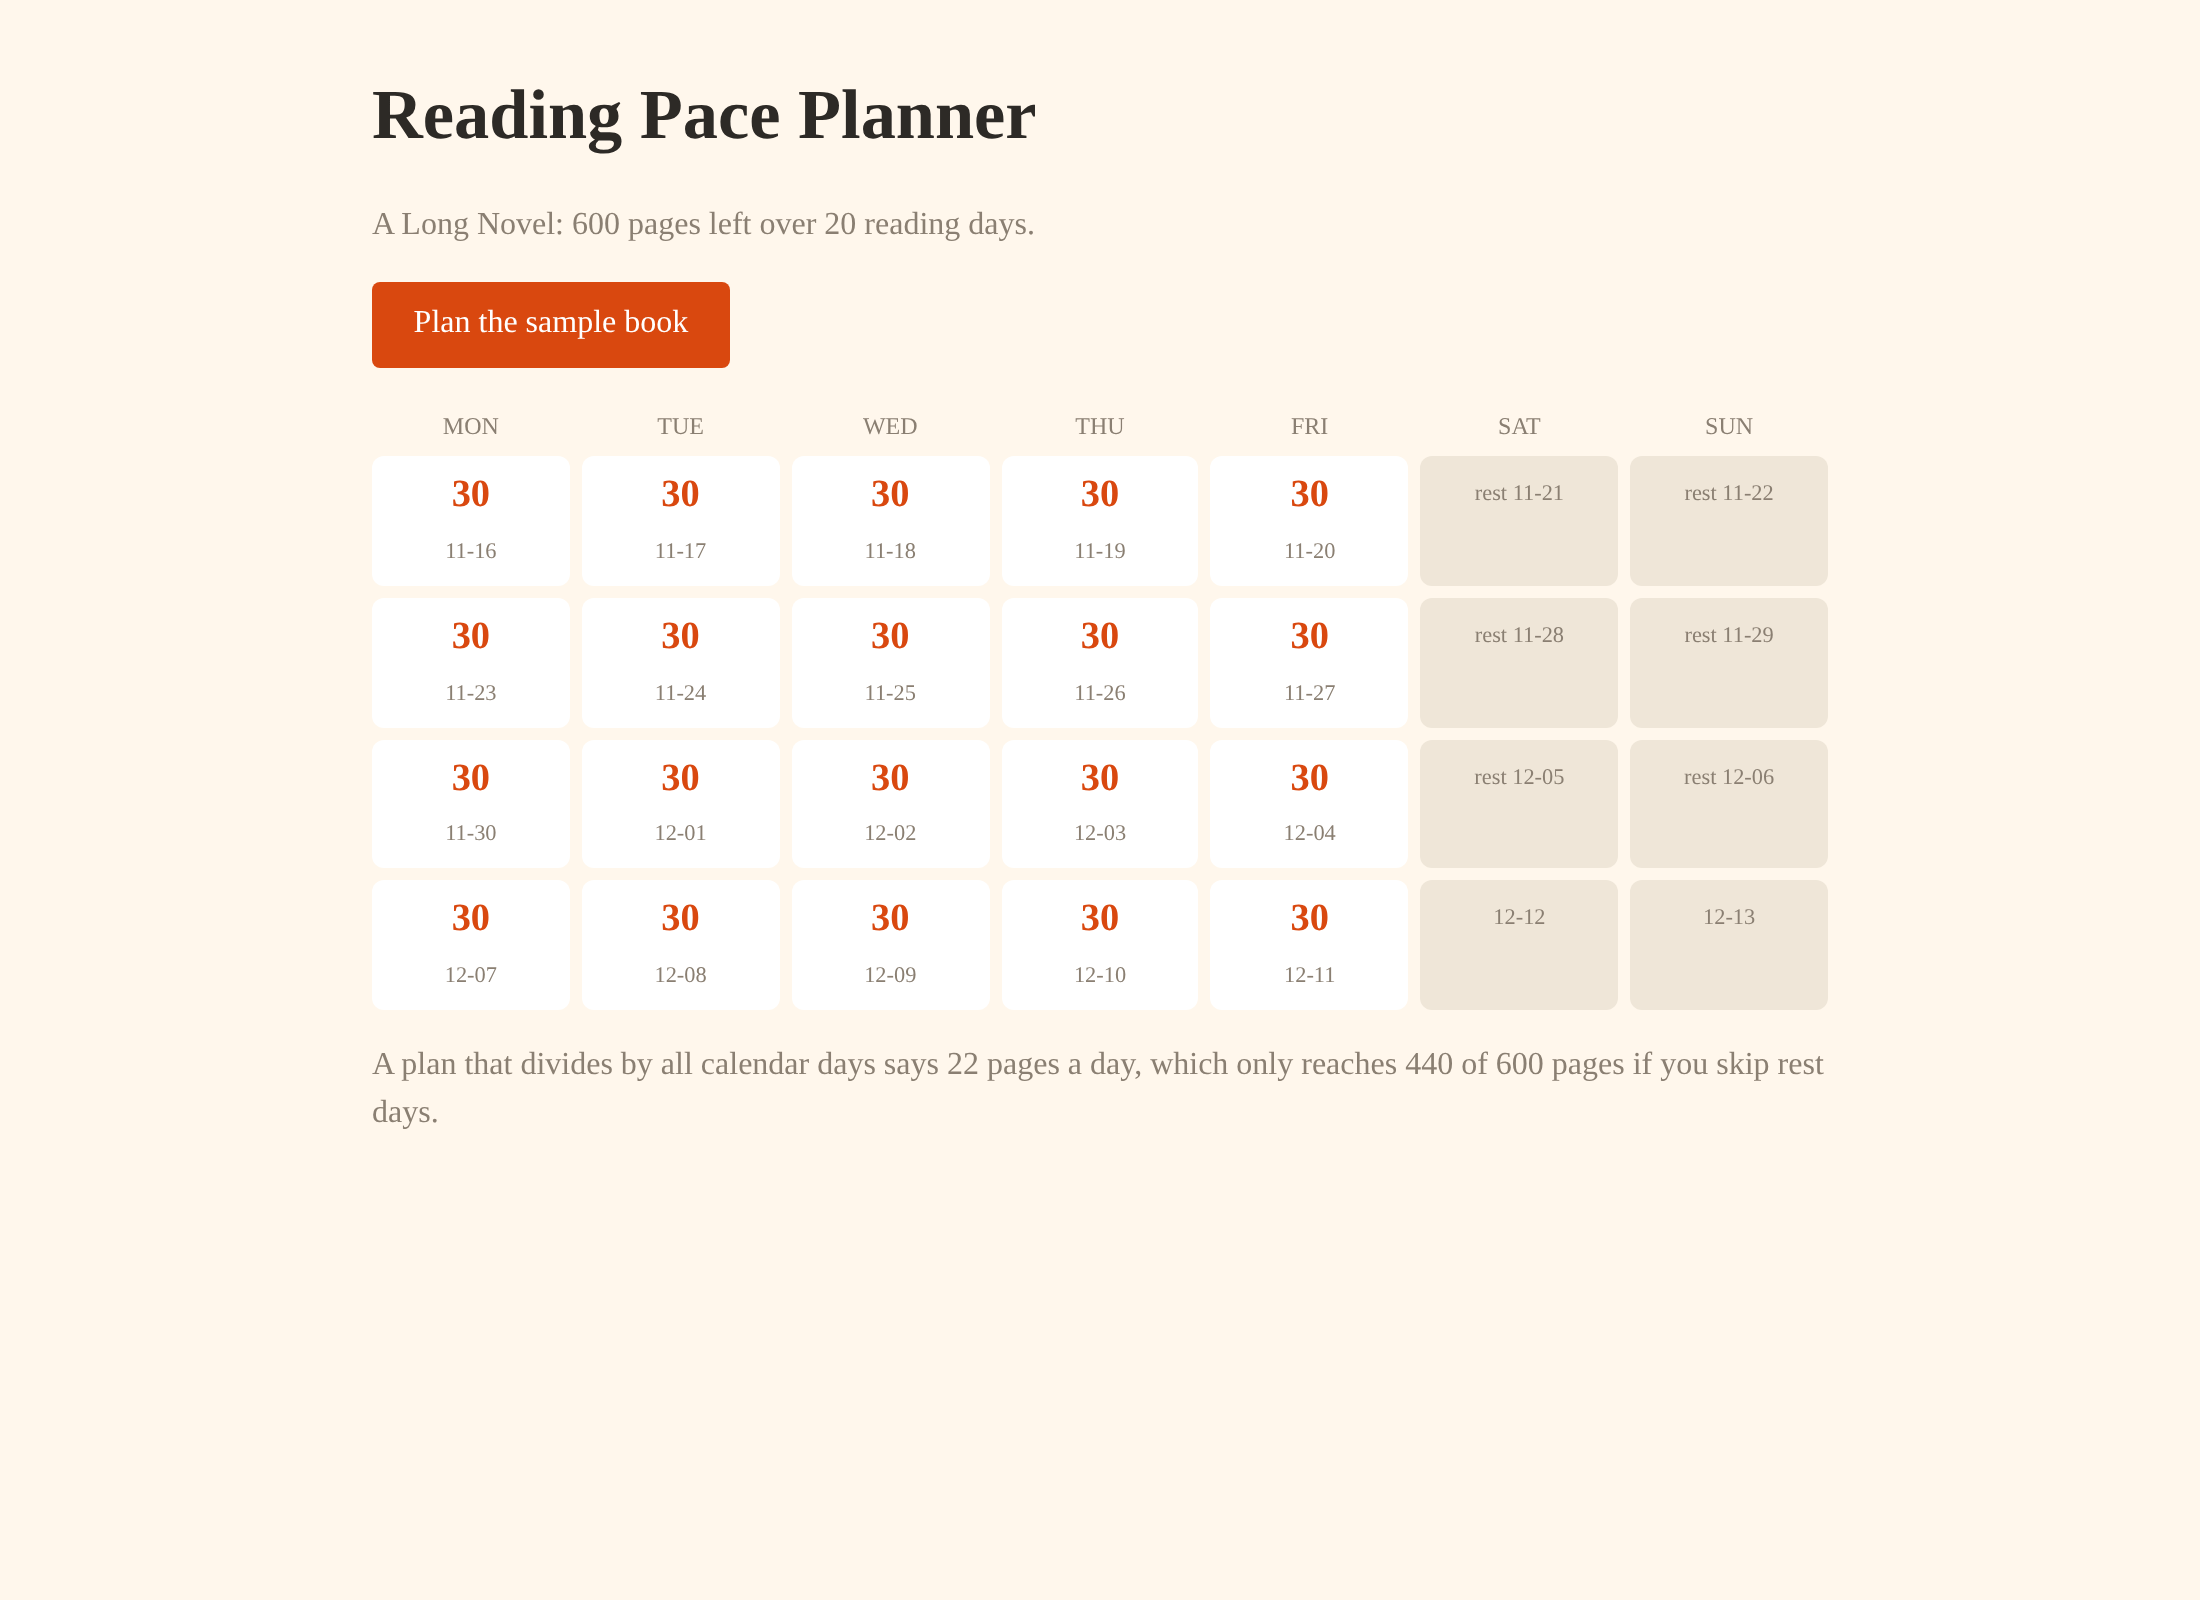
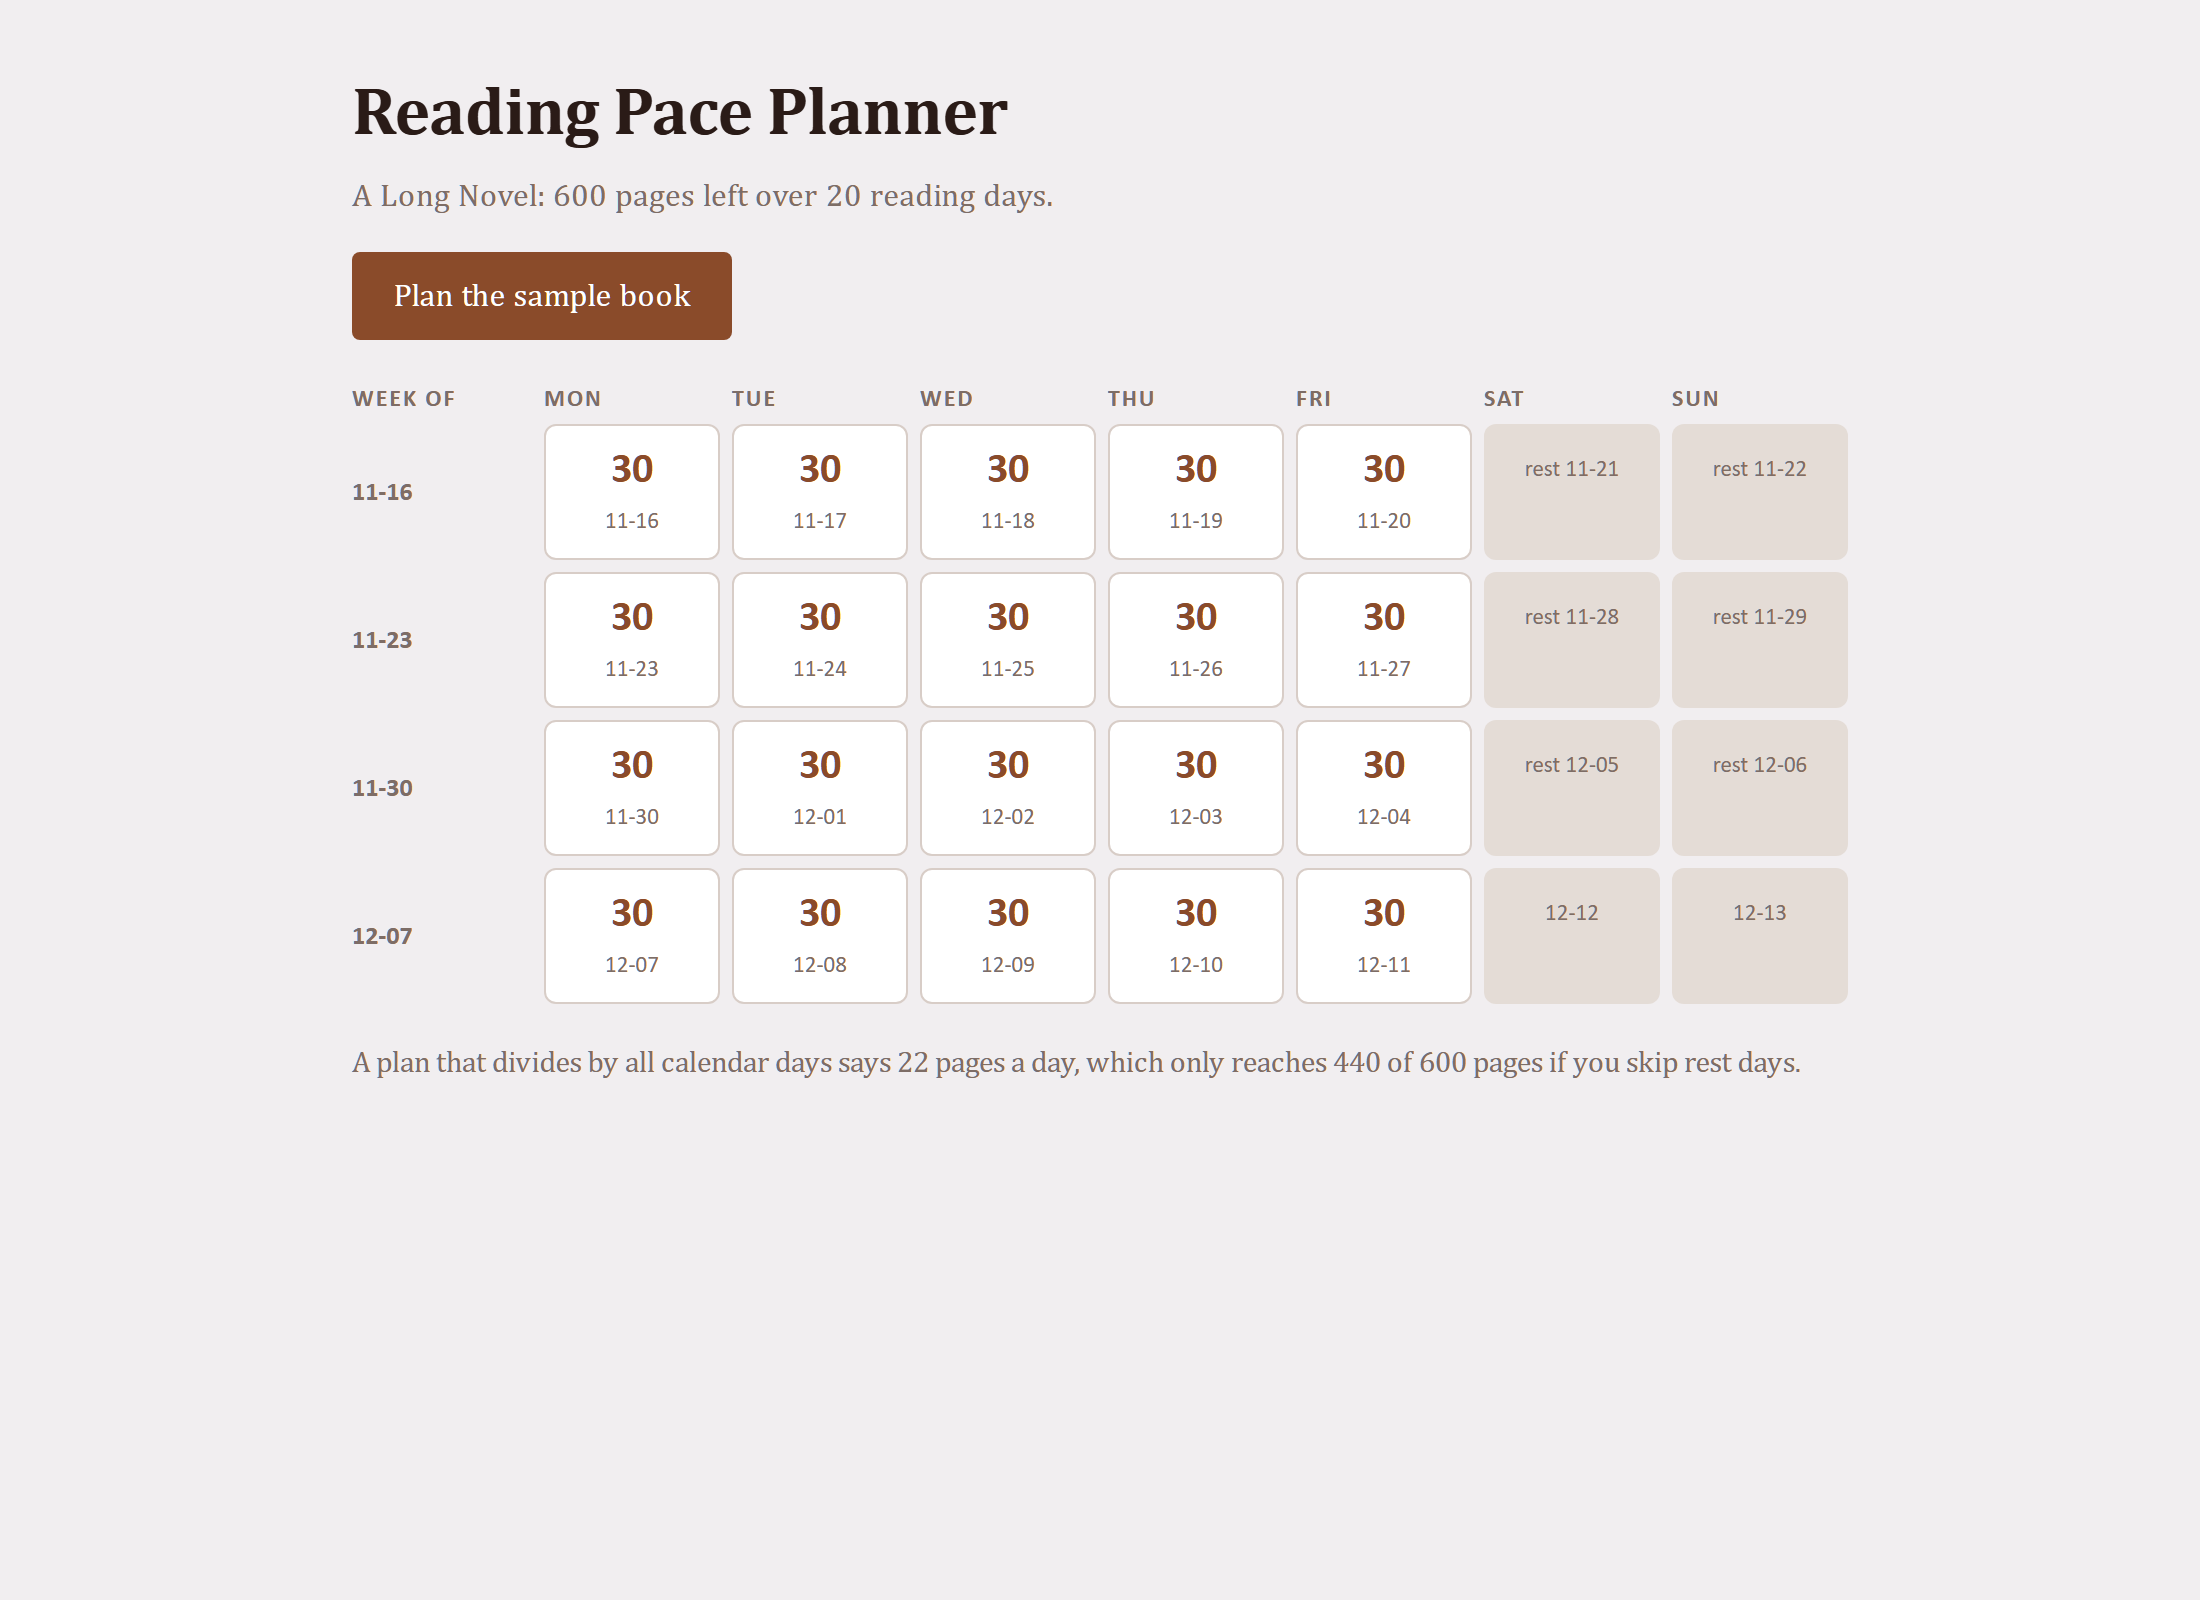
Redesign frontend: reading-pace-planner

diff --git a/static/index.html b/static/index.html
@@ -2,20 +2,31 @@
 <html lang="en"><head><meta charset="utf-8"><meta name="viewport" content="width=device-width,initial-scale=1">
 <title>Reading Pace Planner</title>
 <style>
-:root{--bg:#fff7ec;--ink:#2d2a26;--accent:#d9480f;--card:#fff;--mute:#8a7f72;--rest:#efe6d8}
-*{box-sizing:border-box}body{margin:0;background:var(--bg);color:var(--ink);font:16px/1.5 Charter,"Bitstream Charter",Georgia,serif}
-main{max-width:760px;margin:0 auto;padding:32px 16px}
-h1{margin:0;font-size:2.2rem}p{color:var(--mute)}
+:root{--bg:#f1eef0;--ink:#2a1b17;--accent:#8a4b2a;--card:#ffffff;--mute:#7d6d66;--rest:#e4dcd6;--line:#d8cdc7;color-scheme:light}
+@media (prefers-color-scheme: dark){:root:not([data-theme="light"]){--bg:#1d1716;--ink:#f4e9e3;--accent:#e7a478;--card:#2a201d;--mute:#b1a097;--rest:#332825;--line:#43362f;color-scheme:dark}}
+:root[data-theme="dark"]{--bg:#1d1716;--ink:#f4e9e3;--accent:#e7a478;--card:#2a201d;--mute:#b1a097;--rest:#332825;--line:#43362f;color-scheme:dark}
+*{box-sizing:border-box}
+html,body{background:var(--bg)}
+body{margin:0;color:var(--ink);font:16px/1.5 Cambria,"Hoefler Text","Book Antiqua",serif;padding:0 0 32px}
+main{max-width:780px;margin:0 auto;padding:30px 16px}
+h1{margin:0;font-size:2.1rem;font-weight:700;letter-spacing:-.01em}
+#sub{color:var(--mute);margin:6px 0 16px}
 button{background:var(--accent);color:#fff;border:0;border-radius:4px;padding:.6rem 1.3rem;font:inherit;cursor:pointer}
-.cal{display:grid;grid-template-columns:repeat(7,1fr);gap:6px;margin-top:20px}
-.h{font-size:.75rem;color:var(--mute);text-align:center;text-transform:uppercase}
-.d{background:var(--card);border-radius:6px;padding:6px 4px;text-align:center;min-height:56px}
-.d.rest{background:var(--rest);color:var(--mute)}.d b{display:block;font-size:1.2rem;color:var(--accent)}.d span{font-size:.7rem;color:var(--mute)}
-.note{margin-top:16px}
+button:focus-visible{outline:3px solid var(--line);outline-offset:2px}
+.wkhead{display:grid;grid-template-columns:90px repeat(7,1fr);gap:6px;margin:22px 0 6px;font:600 12px Calibri,sans-serif;letter-spacing:.08em;text-transform:uppercase;color:var(--mute)}
+.wk{display:grid;grid-template-columns:90px repeat(7,1fr);gap:6px;align-items:stretch;margin-bottom:6px}
+.wk .lbl{font:600 13px Calibri,sans-serif;color:var(--mute);align-self:center}
+.d{background:var(--card);border:1px solid var(--line);border-radius:6px;padding:8px 4px;text-align:center;min-height:62px}
+.d.rest{background:var(--rest);border-color:transparent;color:var(--mute)}
+.d b{display:block;font:700 1.3rem Calibri,sans-serif;color:var(--accent)}
+.d span{font:400 .72rem Calibri,sans-serif;color:var(--mute)}
+.note{margin-top:18px;color:var(--mute);font-size:.95rem}
+@media(max-width:560px){.wkhead,.wk{grid-template-columns:repeat(7,1fr)}.wkhead .h0,.wk .lbl{display:none}}
 </style></head><body><main>
 <h1>Reading Pace Planner</h1>
 <p id="sub">Pages per day, skipping rest days.</p>
-<button id="go">Plan the sample book</button><div id="out"></div></main>
+<button id="go">Plan the sample book</button>
+<div id="out"></div></main>
 <script>
 const out=document.getElementById("out"),names=["Mon","Tue","Wed","Thu","Fri","Sat","Sun"];
 document.getElementById("go").onclick=async()=>{
@@ -23,16 +34,20 @@ document.getElementById("go").onclick=async()=>{
   const r=await (await fetch("/plan",{method:"POST",headers:{"Content-Type":"application/json"},body:JSON.stringify(s)})).json();
   document.getElementById("sub").textContent=`${r.title}: ${r.pages_left} pages left over ${r.reading_days} reading days.`;
   const first=new Date(r.schedule[0].date+"T00:00:00Z"),lead=r.schedule[0].weekday;
-  let h='<div class="cal">'+names.map(n=>`<div class="h">${n}</div>`).join("");
   const map=Object.fromEntries(r.schedule.map(x=>[x.date,x.pages]));
   const last=new Date(r.schedule[r.schedule.length-1].date+"T00:00:00Z");
   const start=new Date(first);start.setUTCDate(start.getUTCDate()-lead);
+  const mon=d=>d.toISOString().slice(5,10);
+  let h='<div class="wkhead"><span class="h0">Week of</span>'+names.map(n=>`<span>${n}</span>`).join("")+'</div>';
+  let row="",rowStart=null;
   for(let d=new Date(start);d<=last||d.getUTCDay()!==1;d.setUTCDate(d.getUTCDate()+1)){
+    if(d.getUTCDay()===1){if(row)h+=`<div class="wk"><span class="lbl">${mon(rowStart)}</span>${row}</div>`;row="";rowStart=new Date(d);}
     const k=d.toISOString().slice(0,10),inRange=d>=first&&d<=last;
-    if(map[k]!==undefined)h+=`<div class="d"><b>${map[k]}</b><span>${k.slice(5)}</span></div>`;
-    else h+=`<div class="d rest"><span>${inRange?"rest":""} ${k.slice(5)}</span></div>`;
+    if(map[k]!==undefined)row+=`<div class="d"><b>${map[k]}</b><span>${k.slice(5)}</span></div>`;
+    else row+=`<div class="d rest"><span>${inRange?"rest":""} ${k.slice(5)}</span></div>`;
   }
-  out.innerHTML=h+`</div><p class="note">A plan that divides by all calendar days says ${r.naive_per_day} pages a day, which only reaches ${r.naive_total} of ${r.pages_left} pages if you skip rest days.</p>`;
+  if(row)h+=`<div class="wk"><span class="lbl">${mon(rowStart)}</span>${row}</div>`;
+  out.innerHTML=h+`<p class="note">A plan that divides by all calendar days says ${r.naive_per_day} pages a day, which only reaches ${r.naive_total} of ${r.pages_left} pages if you skip rest days.</p>`;
 };
 document.getElementById("go").click();
 </script></body></html>
